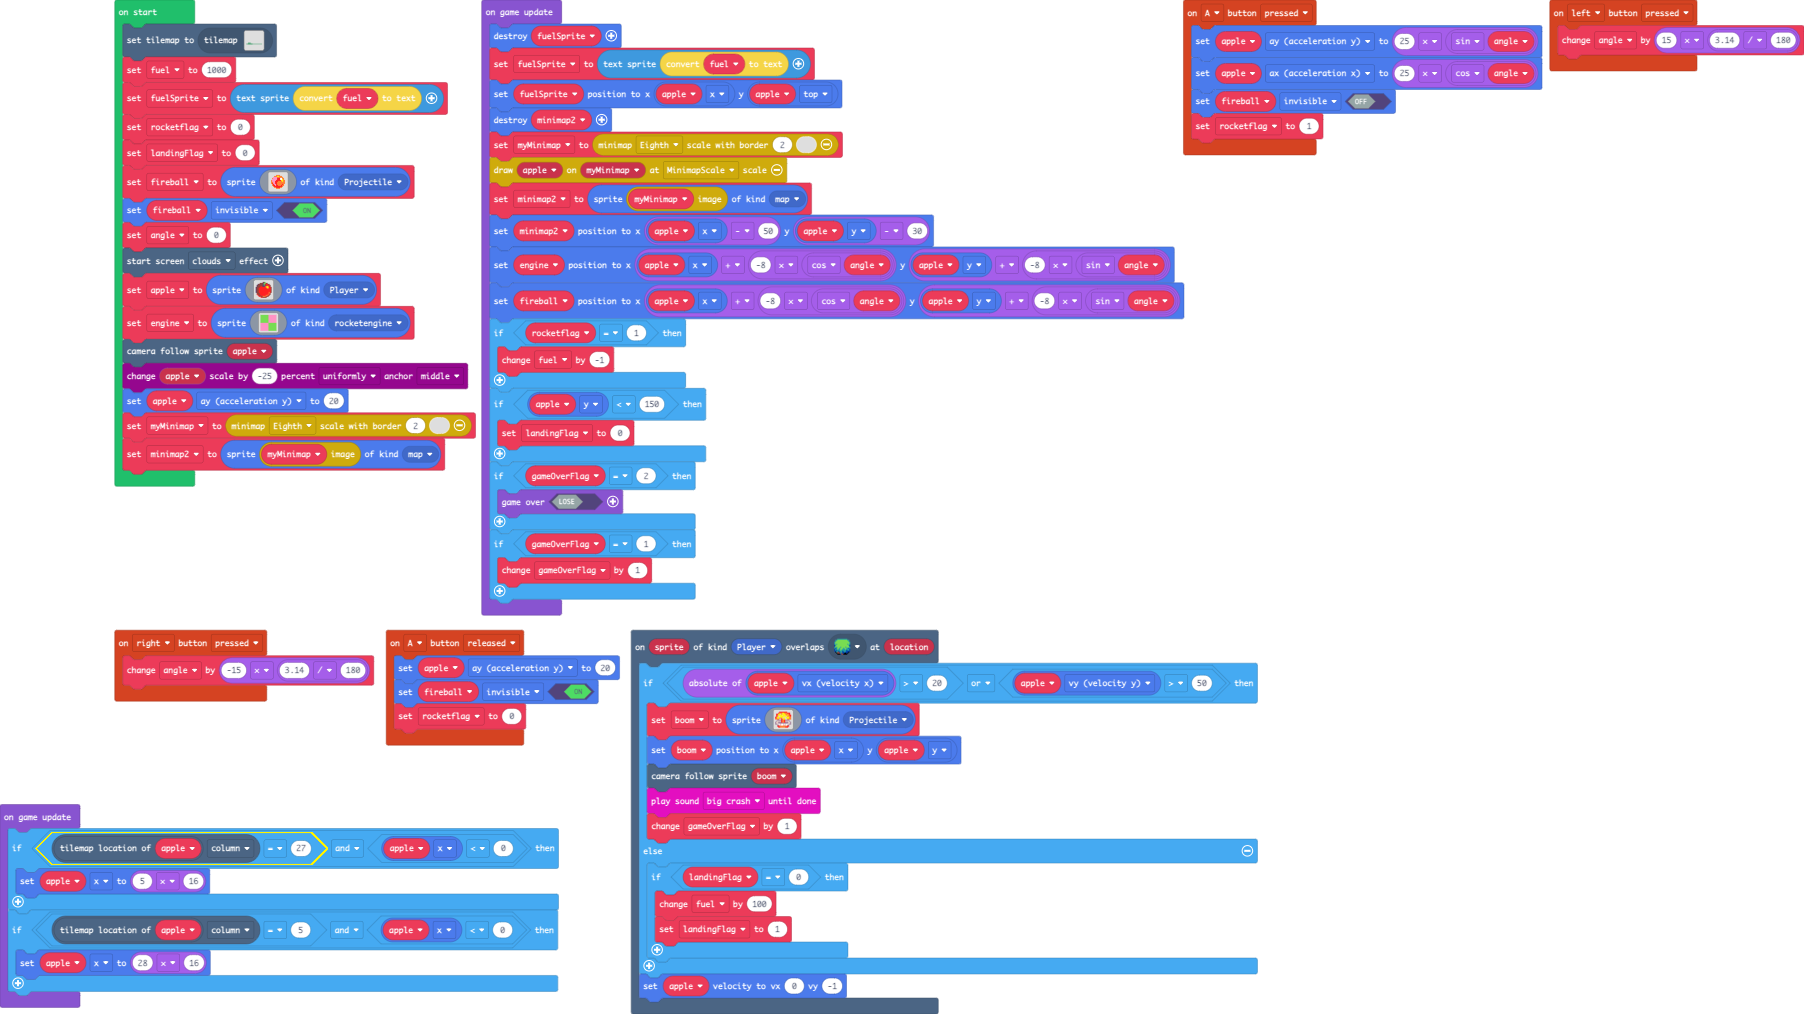
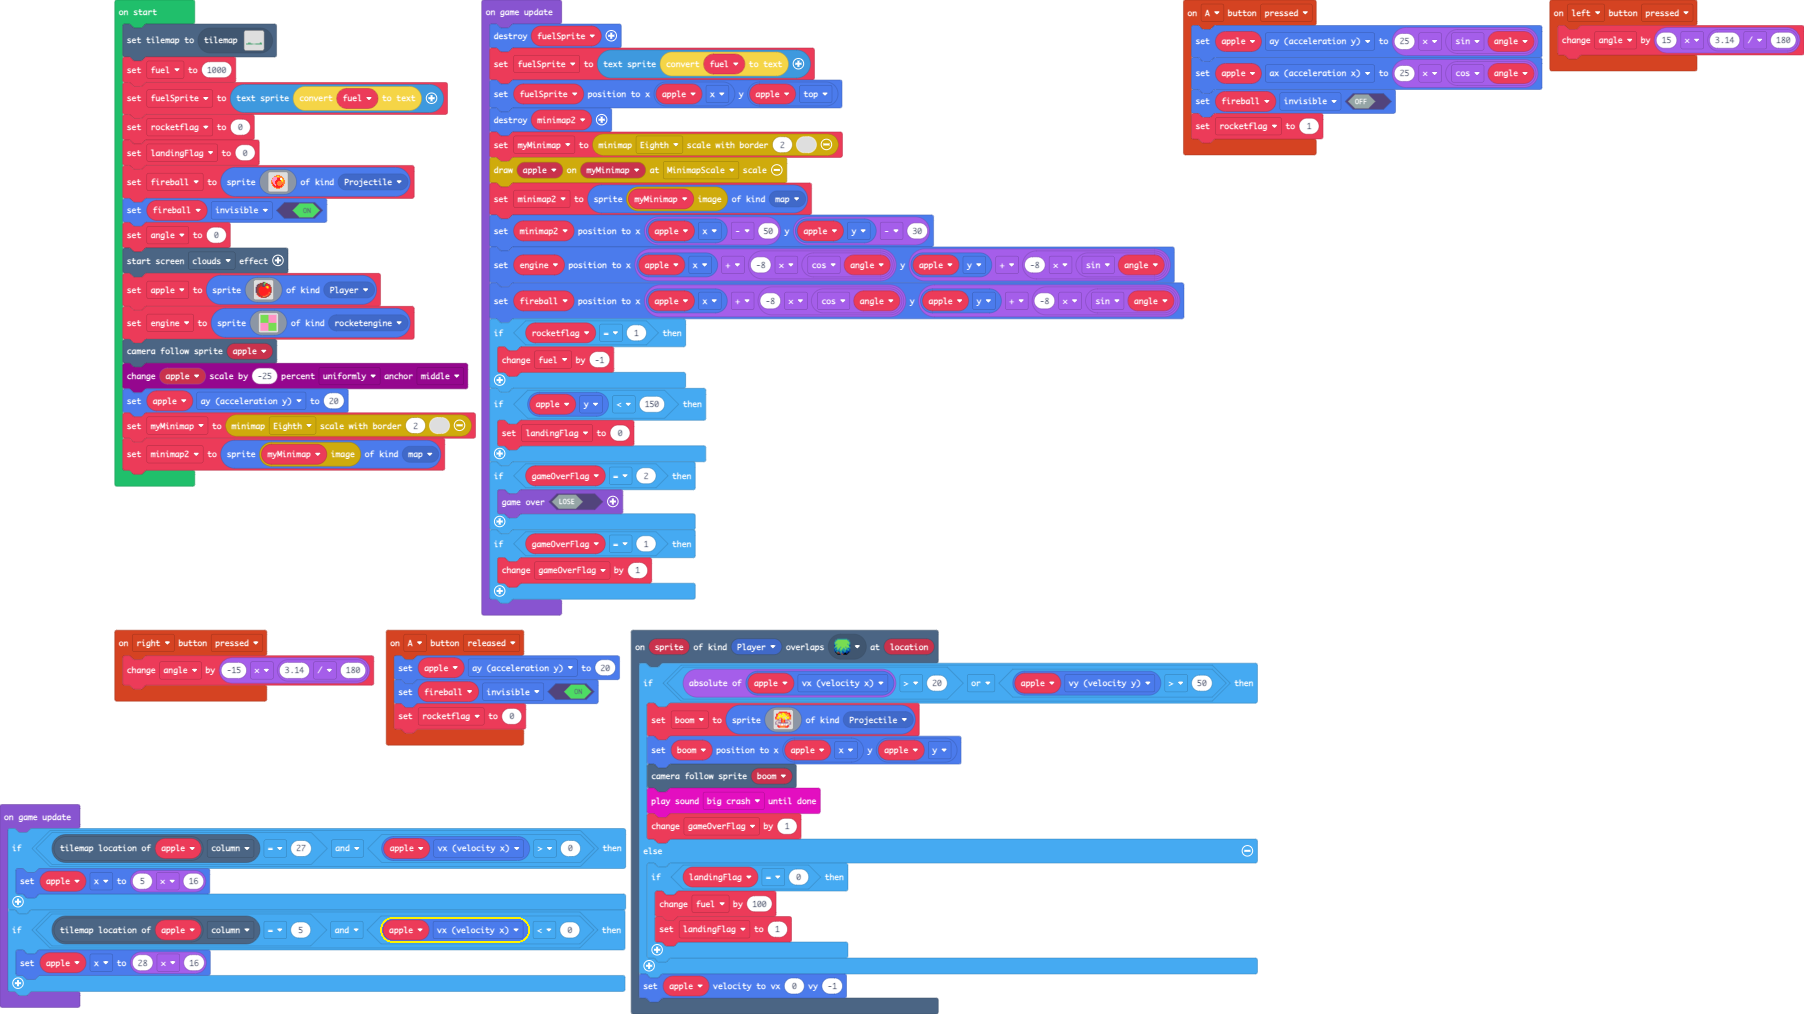
pilemr map

Changed region(s): [[0.2483, 0.7949, 0.3725, 0.9783]]

diff --git a/tilemap.g.ts b/tilemap.g.ts
@@ -25,7 +25,7 @@ namespace myTiles {
 . . . . . . . . . . . . . . . . 
 `, [], -Infinity);
             case "level2":
-            case "level2":return tiles.createTilemap(hex`200010000000000000000000000000000000000000000000000000000000000000000000000000000000000000000000000000000000000000000000000000000000000000000000000000000000000000000000000000000000000000000000000000000000000000000000000000000000000000000000000000000000000000000000000000000000000000000000000000000000000000000000000000000000000000000000000000000000000000000000000000000000000000000000000000000000000000000000000000000000000000000000000000000000000000000000000000000000000000000000000000000000000000000000000000000000000000000000000000000000000000000000000000000000000000000000000000000000000000000000000000000000000000000000000000000000000000000000000000000000000000000000000000000000000000000000000000000000000000000000000000000000000000000000000000000000000000000000000000000000000000010100000000000000000000000000000000000000000000000000000000000101010101010000000000000000000000000000000000000000000000000001010101010101010101000000000000000000000000000000000000000101010101010101010101010101010101010101010101010101010101010101`, img`
+            case "level2":return tiles.createTilemap(hex`200010000000000000000000000000000000000000000000000000000000000000000000000000000000000000000000000000000000000000000000000000000000000000000000000000000000000000000000000000000000000000000000000000000000000000000000000000000000000000000000000000000000000000000000000000000000000000000000000000000000000000000000000000000000000000000000000000000000000000000000000000000000000000000000000000000000000000000000000000000000000000000000000000000000000000000000000000000000000000000000000000000000000000000000000000000000000000000000000000000000000000000000000000000000000000000000000000000000000000000000000000000000000000000000000000000000000000000000000000000000000000000000000000000000000000000000000000000000000000000000000000000000000000000000000000000000000000000000000000000000000000010100000000000000000000000000000000000000000001010000000000000101010101010000000000000000000000000000000000010101010101010101010101010101010101000000000000010101010101010101010101010101010101010101010101010101010101010101010101010101010101010101`, img`
 ................................
 ................................
 ................................

diff --git a/main.ts b/main.ts
@@ -136,10 +136,10 @@ game.onUpdate(function () {
     }
 })
 game.onUpdate(function () {
-    if (apple.tilemapLocation().column == 27 && apple.x < 0) {
+    if (apple.tilemapLocation().column == 27 && apple.vx > 0) {
         apple.x = 5 * 16
     }
-    if (apple.tilemapLocation().column == 5 && apple.x < 0) {
+    if (apple.tilemapLocation().column == 5 && apple.vx < 0) {
         apple.x = 28 * 16
     }
 })
